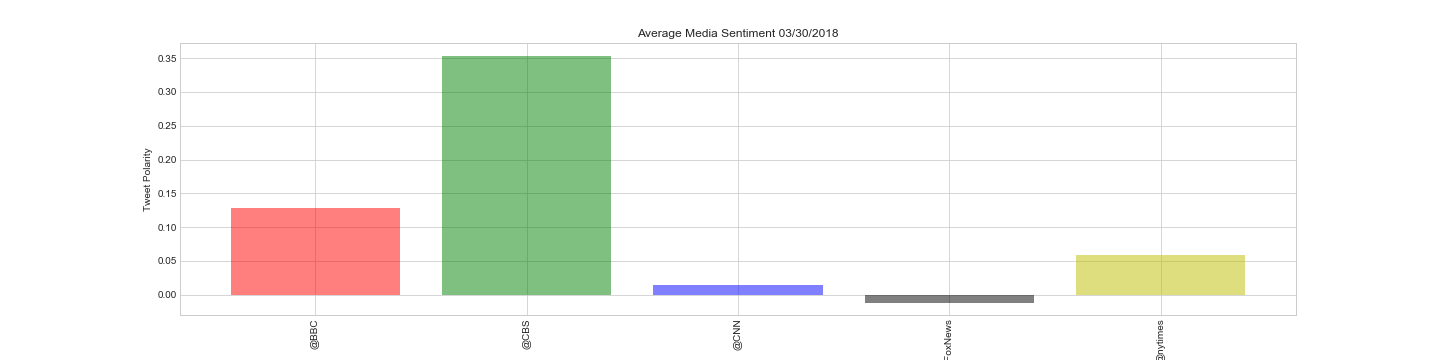
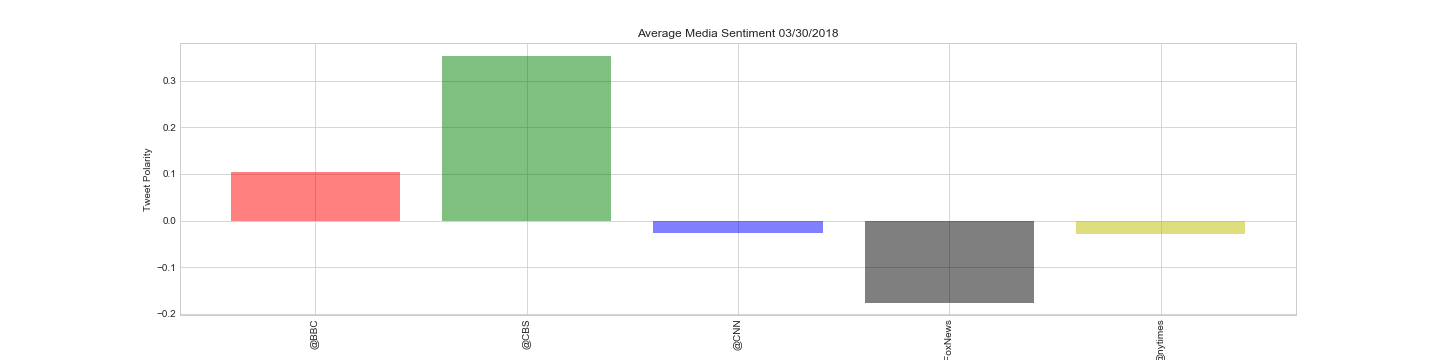
Adding Social analytics

diff --git a/Social Analytics/SocialAnalytic_ReadMe.md b/Social Analytics/SocialAnalytic_ReadMe.md
@@ -1,0 +1,184 @@
+
+
+```python
+#Analyzing the news sentiment
+#BBC, CBS, CNN, Fox, and New York times.
+#The first plot: scatter from the past 100 tweets of each outlet, each plot is the compound. sort by time stamp
+#second plot: bar plot of overall sentiment of each outlet,  aggregate the compound sentiment
+
+#Dependencies
+import json
+import tweepy
+import numpy as np
+import pandas as pd
+import seaborn as sns
+import matplotlib.pyplot as plt
+import time
+from datetime import datetime
+from textblob import TextBlob
+import matplotlib.patches as mpatches
+
+#Keys to the kingdom
+from config import Consumer
+from config import ConsumerSecret
+from config import Access
+from config import AccessSecret
+
+# Setup Tweepy API Authentication
+auth = tweepy.OAuthHandler(Consumer, ConsumerSecret)
+auth.set_access_token(Access, AccessSecret)
+api = tweepy.API(auth, parser=tweepy.parsers.JSONParser())
+
+#Vader for the sentiment analytics
+from vaderSentiment.vaderSentiment import SentimentIntensityAnalyzer
+analyzer = SentimentIntensityAnalyzer()
+```
+
+
+```python
+target_tags = ["@BBC", "@CBS", "@CNN", "@FoxNews","@nytimes"]
+```
+
+
+```python
+#Pulling data from Twitter API
+counter = 0
+sentiments = []
+while counter < 4:
+    for tag in target_tags:
+        target_user = tag
+        tweet_count = 0
+        for x in range(5):
+            public_tweets = api.user_timeline(target_user)
+            for tweet in public_tweets:
+                compound = analyzer.polarity_scores(tweet["text"])["compound"]
+                pos = analyzer.polarity_scores(tweet["text"])["pos"]
+                neu = analyzer.polarity_scores(tweet["text"])["neu"]
+                neg = analyzer.polarity_scores(tweet["text"])["neg"]
+                raw_time = tweet["created_at"]
+                converted_time = datetime.strptime(raw_time, "%a %b %d %H:%M:%S %z %Y")
+                words = tweet["text"]
+                print(analyzer.polarity_scores(tweet["text"]))
+                sentiments.append({"Date": converted_time,
+                                   "Tweet": words,
+                                   "Compound": compound,
+                                   "Positive": pos,
+                                   "Negative": neu,
+                                   "Neutral": neg,
+                                   "Outlet": tag,
+                                   "Tweets Ago": tweet_count,})
+                counter = counter + 1 
+                tweet_count = tweet_count + 1
+                converted_time = []
+                words = []
+
+
+```
+
+
+```python
+sentiments_pd = pd.DataFrame.from_dict(sentiments)
+sentiments_pd.head()
+```
+
+
+```python
+#Re-ordering the DataFrame
+sentiments_pd = sentiments_pd[["Outlet", "Date", "Tweet", "Compound", "Positive", "Neutral", "Negative", "Tweets Ago"]]
+sentiments_pd.tail()
+```
+
+
+```python
+#Checking to ensure I pulled all outlets
+sentiments_pd["Outlet"].unique()
+```
+
+
+```python
+#Sorting by date
+sentiments_pd= sentiments_pd.sort_values("Date", ascending=False)
+```
+
+
+```python
+#Plotting
+import seaborn as sns
+sns.set_style("whitegrid")
+plt.figure(figsize=(20,5))
+plt.title("Tweet Sentiment")
+plt.xlabel('Tweets Ago')
+plt.ylabel('Tweet Polarity')
+
+bbc = sentiments_pd.loc[sentiments_pd["Outlet"] == "@BBC",:]
+plt.scatter(bbc["Tweets Ago"], bbc["Compound"], c='darkviolet', s=100, alpha=0.5, edgecolors="grey", linewidth=1)
+
+cbs = sentiments_pd.loc[sentiments_pd["Outlet"] == "@CBS",:]
+plt.scatter(cbs["Tweets Ago"], cbs["Compound"], c='lime', s=100, alpha=0.5, edgecolors="grey", linewidth=1,)
+
+cnn = sentiments_pd.loc[sentiments_pd["Outlet"] == "@CNN",:]
+plt.scatter(cnn["Tweets Ago"], cnn["Compound"], c='red', s=100, alpha=0.5, edgecolors="grey", linewidth=1,)
+
+FoxNews = sentiments_pd.loc[sentiments_pd["Outlet"] == "@FoxNews",:]
+plt.scatter(FoxNews["Tweets Ago"], FoxNews["Compound"], c='Orange', s=100, alpha=0.5, edgecolors="grey", linewidth=1,)
+
+NYTimes = sentiments_pd.loc[sentiments_pd["Outlet"] == "@nytimes",:]
+plt.scatter(NYTimes["Tweets Ago"], NYTimes["Compound"], c='Navy', s=100, alpha=0.5, edgecolors="grey", linewidth=1,)
+
+BBC = mpatches.Patch(color='darkviolet', label='BBC')
+CBS = mpatches.Patch(color='lime', label='CBS')
+CNN = mpatches.Patch(color='red', label='CNN')
+FoxNews = mpatches.Patch(color='Orange', label='FoxNews')
+NYTimes = mpatches.Patch(color='Navy', label='NYTimes')
+plt.legend(handles=[BBC,CBS,CNN,FoxNews,NYTimes], loc=1)
+plt.savefig("Compound_Scatter.png")
+plt.show()
+
+```
+
+
+```python
+#Grouping by outlet then creating a new DF for the bar chart
+bar_prep = sentiments_pd.groupby(['Outlet'],as_index=False).mean()[['Outlet','Compound']]
+bar_prep.head()
+```
+
+
+```python
+#Bar Chart
+sns.set_style("whitegrid")
+plt.figure(figsize=(20,5))
+plt.title("Average Media Sentiment 03/30/2018")
+plt.xlabel('News Outlet')
+plt.ylabel('Tweet Polarity')
+my_colors = 'rgbkymc'
+#Ticks
+x_axis = np.arange(len(bar_prep["Outlet"]))
+tick_locations = [value+0.4 for value in x_axis]
+#Plot
+plt.bar(x_axis, bar_prep["Compound"], color=my_colors, alpha=0.5, align="edge")
+plt.xticks(tick_locations, bar_prep["Outlet"], rotation="vertical")
+
+plt.savefig("Compound_Bar.png")
+plt.show()
+```
+
+
+```python
+writer = pd.ExcelWriter('output.xlsx',options={'remove_timezone': True})
+sentiments_pd.to_excel(writer,'Sheet1')
+```
+
+
+```python
+# Three Trends:
+# 1) CBS usually has higher positive sentiment
+# 2) Fox usually has negative sentiment
+# 3) NYTimes/BBC is in the middle normally
+
+```
+
+
+```python
+#End of code 
+```
